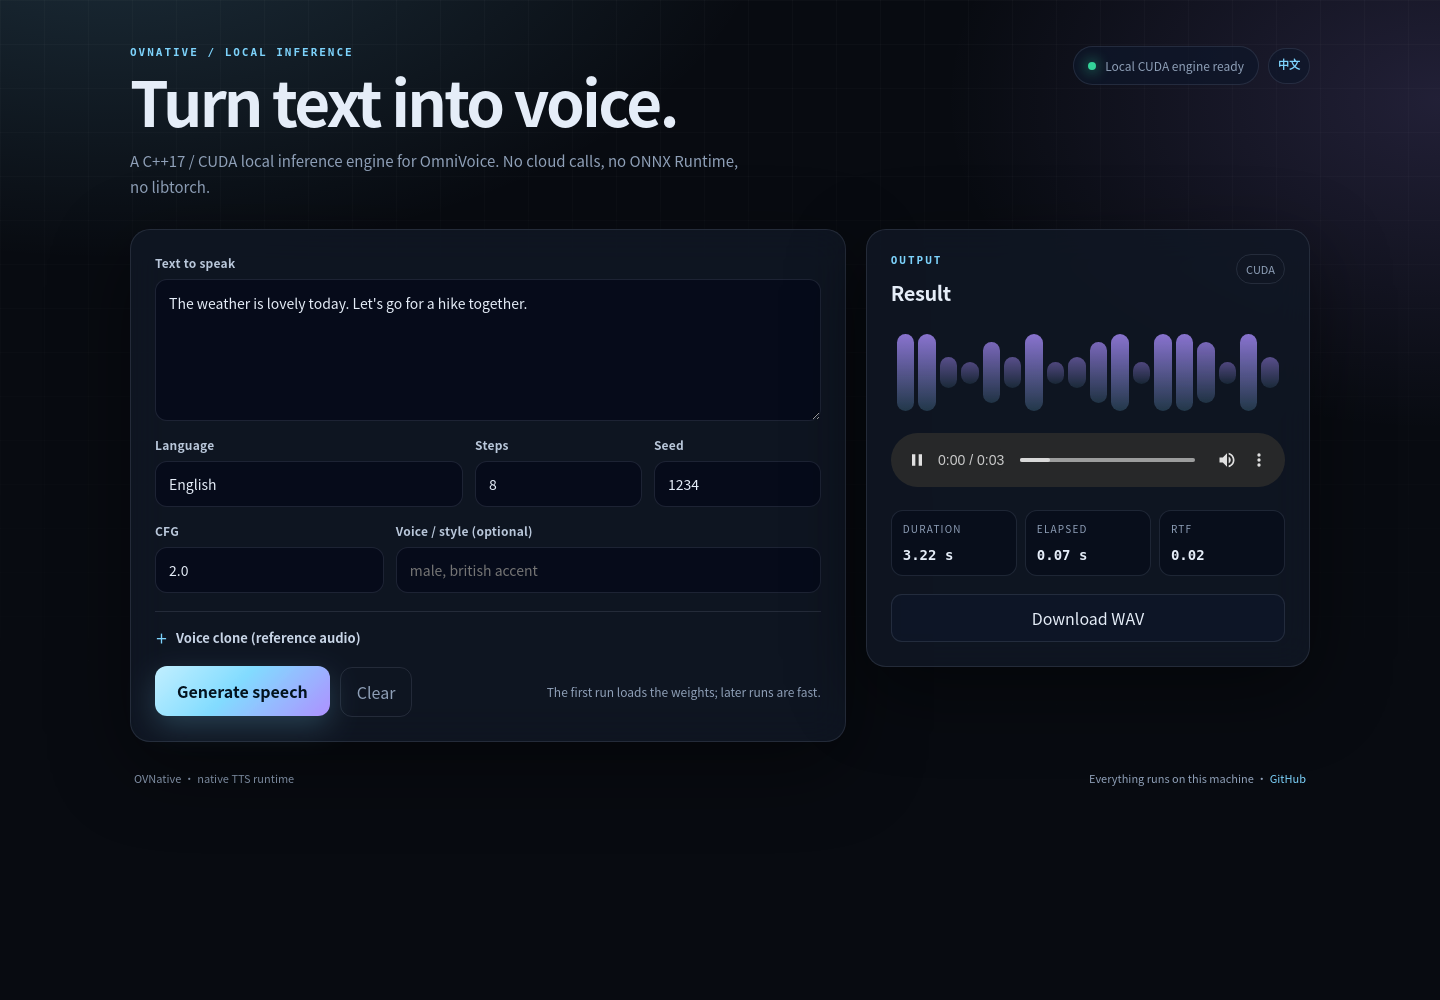
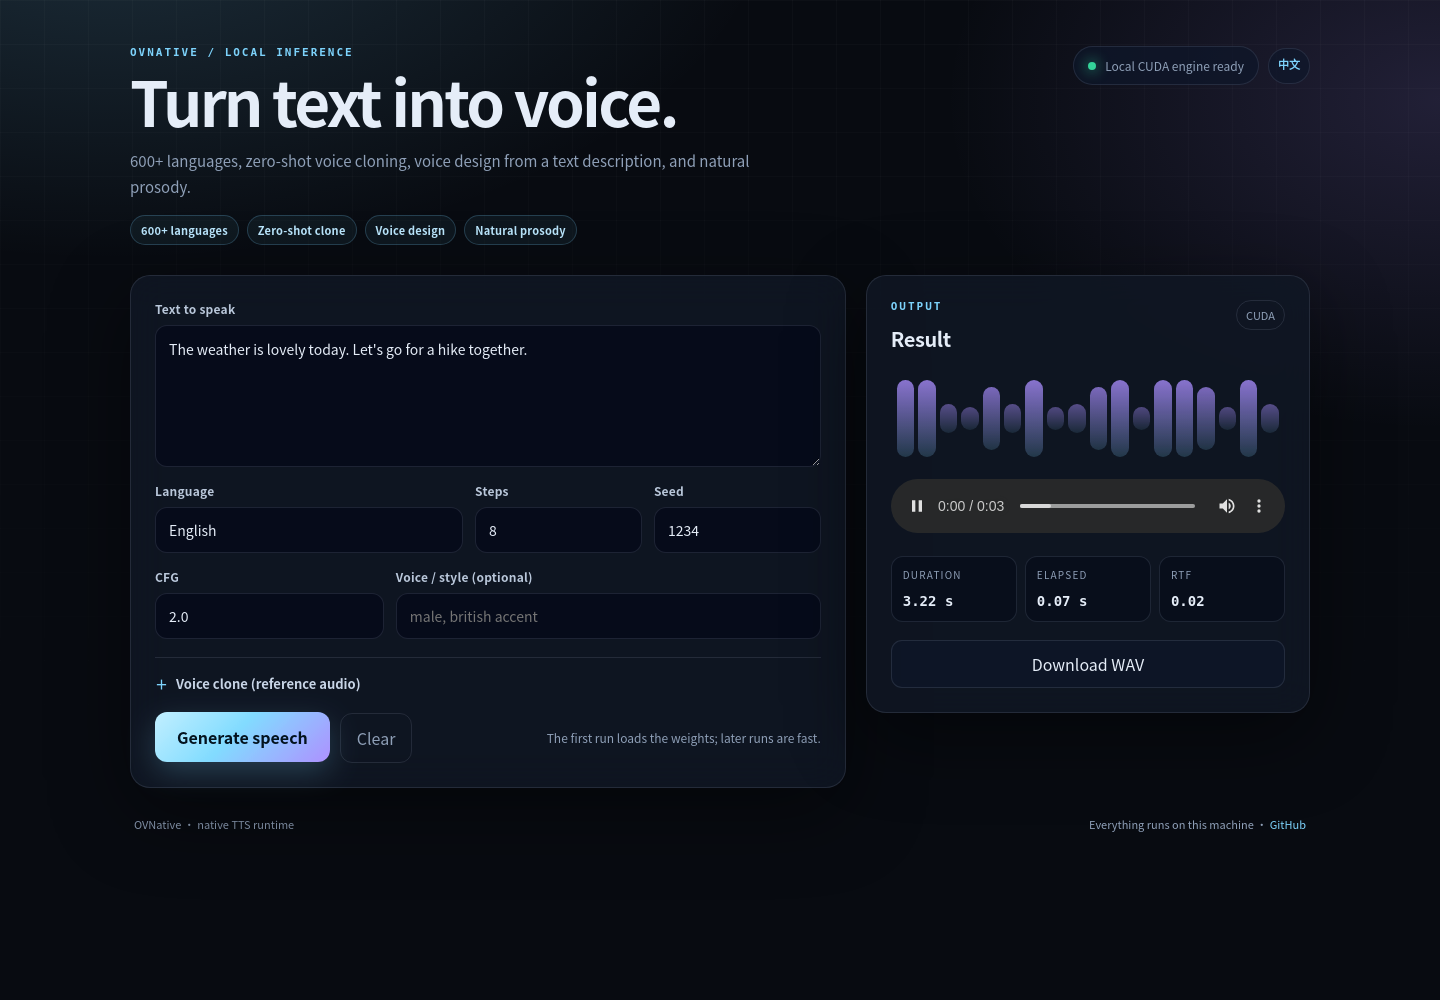
web: lead with model capabilities instead of implementation details

diff --git a/web/app.js b/web/app.js
@@ -13,7 +13,11 @@ const I18N = {
     statusCpu: "本地 CPU 引擎就绪",
     statusBad: "无法连接本地引擎",
     heroTitle: "把文字，变成声音。",
-    heroLede: "OmniVoice 的 C++17 / CUDA 本地推理引擎。没有云端请求，没有 ONNX Runtime，没有 libtorch。",
+    heroLede: "支持 600+ 语种、零样本音色克隆、用文字描述音色，以及自然、有韵律的语音合成。",
+    featLanguages: "600+ 语种",
+    featClone: "零样本克隆",
+    featDesign: "文字设计音色",
+    featProsody: "自然韵律",
     textLabel: "要说的文字",
     languageLabel: "语言",
     stepsLabel: "步数",
@@ -54,7 +58,11 @@ const I18N = {
     statusCpu: "Local CPU engine ready",
     statusBad: "Cannot reach the local engine",
     heroTitle: "Turn text into voice.",
-    heroLede: "A C++17 / CUDA local inference engine for OmniVoice. No cloud calls, no ONNX Runtime, no libtorch.",
+    heroLede: "600+ languages, zero-shot voice cloning, voice design from a text description, and natural prosody.",
+    featLanguages: "600+ languages",
+    featClone: "Zero-shot clone",
+    featDesign: "Voice design",
+    featProsody: "Natural prosody",
     textLabel: "Text to speak",
     languageLabel: "Language",
     stepsLabel: "Steps",

diff --git a/web/index.html b/web/index.html
@@ -12,7 +12,13 @@
       <div>
         <p class="eyebrow">OVNATIVE / LOCAL INFERENCE</p>
         <h1 data-i18n="heroTitle">把文字，变成声音。</h1>
-        <p class="lede" data-i18n="heroLede">OmniVoice 的 C++17 / CUDA 本地推理引擎。没有云端请求，没有 ONNX Runtime，没有 libtorch。</p>
+        <p class="lede" data-i18n="heroLede">支持 600+ 语种、零样本音色克隆、用文字描述音色，以及自然、有韵律的语音合成。</p>
+        <div class="tags">
+          <span data-i18n="featLanguages">600+ 语种</span>
+          <span data-i18n="featClone">零样本克隆</span>
+          <span data-i18n="featDesign">文字设计音色</span>
+          <span data-i18n="featProsody">自然韵律</span>
+        </div>
       </div>
       <div class="hero-actions">
         <div class="status" id="status">

diff --git a/web/style.css b/web/style.css
@@ -135,3 +135,10 @@ audio { width: 100%; filter: invert(.88) hue-rotate(180deg); }
 }
 .lang-toggle:hover { border-color: var(--accent); color: #e0f2fe; }
 @media (max-width: 900px) { .hero-actions { justify-content: flex-start; } }
+
+.tags { display: flex; flex-wrap: wrap; gap: 8px; margin-top: 16px; }
+.tags span {
+  border: 1px solid rgba(125, 211, 252, .22); border-radius: 999px;
+  background: rgba(125, 211, 252, .06); color: #bae6fd;
+  padding: 6px 10px; font-size: 11px; font-weight: 600; letter-spacing: .02em;
+}
